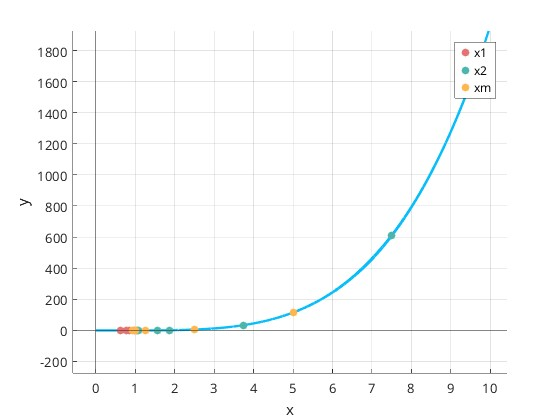
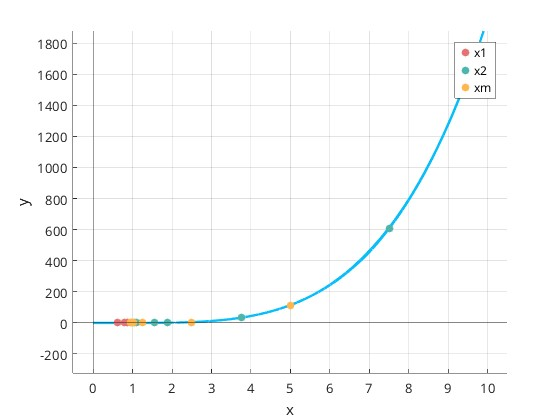
added legend to plotting

diff --git a/01-lab/plot/plot_selected_points.m b/01-lab/plot/plot_selected_points.m
@@ -1,7 +1,6 @@
 function plot_selected_points(f, selected_points)
-    graph = plot(selected_points, f(selected_points)); hold on;
-    graph.Color = '#404dff';
-    graph.LineStyle = "none";
-    graph.Marker = '.';
-    graph.MarkerSize = 20;
+    graph = scatter(selected_points, f(selected_points), "filled"); hold on;
+    graph.MarkerFaceColor = '#404DFF';
+
+    legend([graph], {'x_i'})
 end
